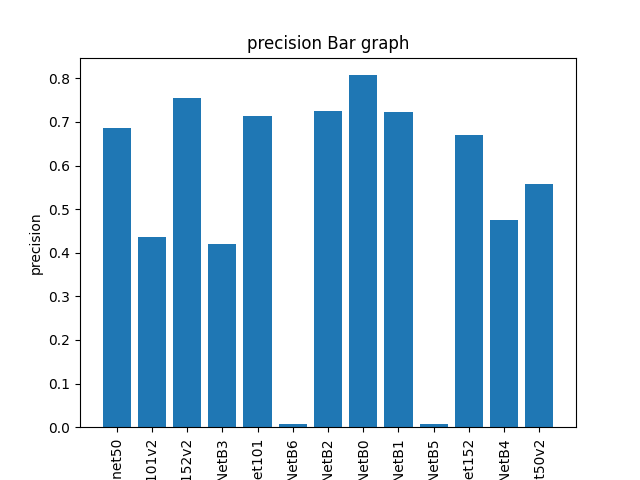
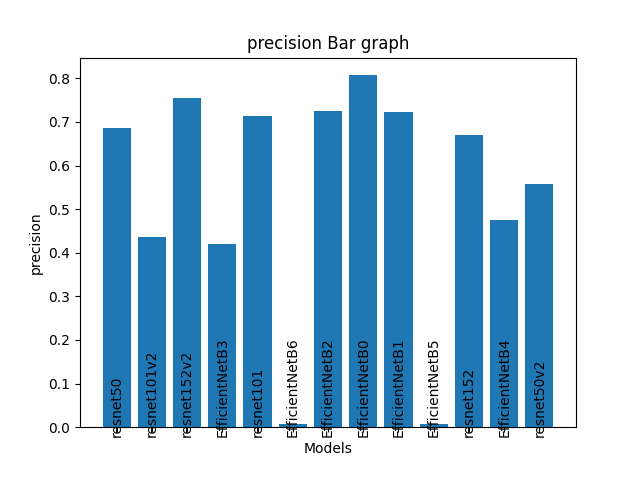
changed alignment of text

diff --git a/dcnn/metrics_agg.py b/dcnn/metrics_agg.py
@@ -72,7 +72,7 @@ def create_bar(metrics, col):
         val.append(m)
     plt.bar(cat, val,)
 
-    plt.xticks(rotation=90, va="top")
+    plt.xticks(rotation=90, va="bottom")
     plt.xlabel('Models')
     plt.ylabel(f"{col}")
     plt.title(f"{col} Bar graph")
